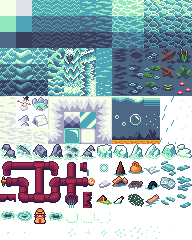
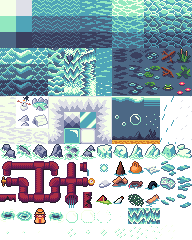
new map, more animation, move specular reflection to face sprite sheet and not body

Changed region(s): [[0.6562, 0.8458, 0.8438, 0.9333]]

diff --git a/assets/water.tsx b/assets/water.tsx
@@ -21,6 +21,58 @@
    <frame tileid="11" duration="600"/>
   </animation>
  </tile>
+ <tile id="14">
+  <animation>
+   <frame tileid="14" duration="200"/>
+   <frame tileid="15" duration="200"/>
+   <frame tileid="16" duration="200"/>
+  </animation>
+ </tile>
+ <tile id="17">
+  <animation>
+   <frame tileid="17" duration="800"/>
+   <frame tileid="18" duration="800"/>
+  </animation>
+ </tile>
+ <tile id="19">
+  <animation>
+   <frame tileid="19" duration="800"/>
+   <frame tileid="20" duration="800"/>
+  </animation>
+ </tile>
+ <tile id="21">
+  <animation>
+   <frame tileid="21" duration="800"/>
+   <frame tileid="22" duration="800"/>
+   <frame tileid="23" duration="1000"/>
+  </animation>
+ </tile>
+ <tile id="26">
+  <animation>
+   <frame tileid="26" duration="200"/>
+   <frame tileid="27" duration="200"/>
+   <frame tileid="28" duration="200"/>
+  </animation>
+ </tile>
+ <tile id="29">
+  <animation>
+   <frame tileid="29" duration="800"/>
+   <frame tileid="30" duration="800"/>
+  </animation>
+ </tile>
+ <tile id="31">
+  <animation>
+   <frame tileid="31" duration="800"/>
+   <frame tileid="32" duration="800"/>
+  </animation>
+ </tile>
+ <tile id="33">
+  <animation>
+   <frame tileid="33" duration="800"/>
+   <frame tileid="34" duration="800"/>
+   <frame tileid="35" duration="1000"/>
+  </animation>
+ </tile>
  <tile id="39">
   <animation>
    <frame tileid="51" duration="200"/>
@@ -28,11 +80,23 @@
    <frame tileid="63" duration="200"/>
   </animation>
  </tile>
+ <tile id="42">
+  <animation>
+   <frame tileid="42" duration="200"/>
+   <frame tileid="54" duration="200"/>
+   <frame tileid="66" duration="200"/>
+  </animation>
+ </tile>
  <tile id="43">
   <animation>
    <frame tileid="43" duration="200"/>
    <frame tileid="55" duration="200"/>
    <frame tileid="67" duration="200"/>
+  </animation>
+ </tile>
+ <tile id="52">
+  <animation>
+   <frame tileid="52" duration="200"/>
   </animation>
  </tile>
  <tile id="56">
